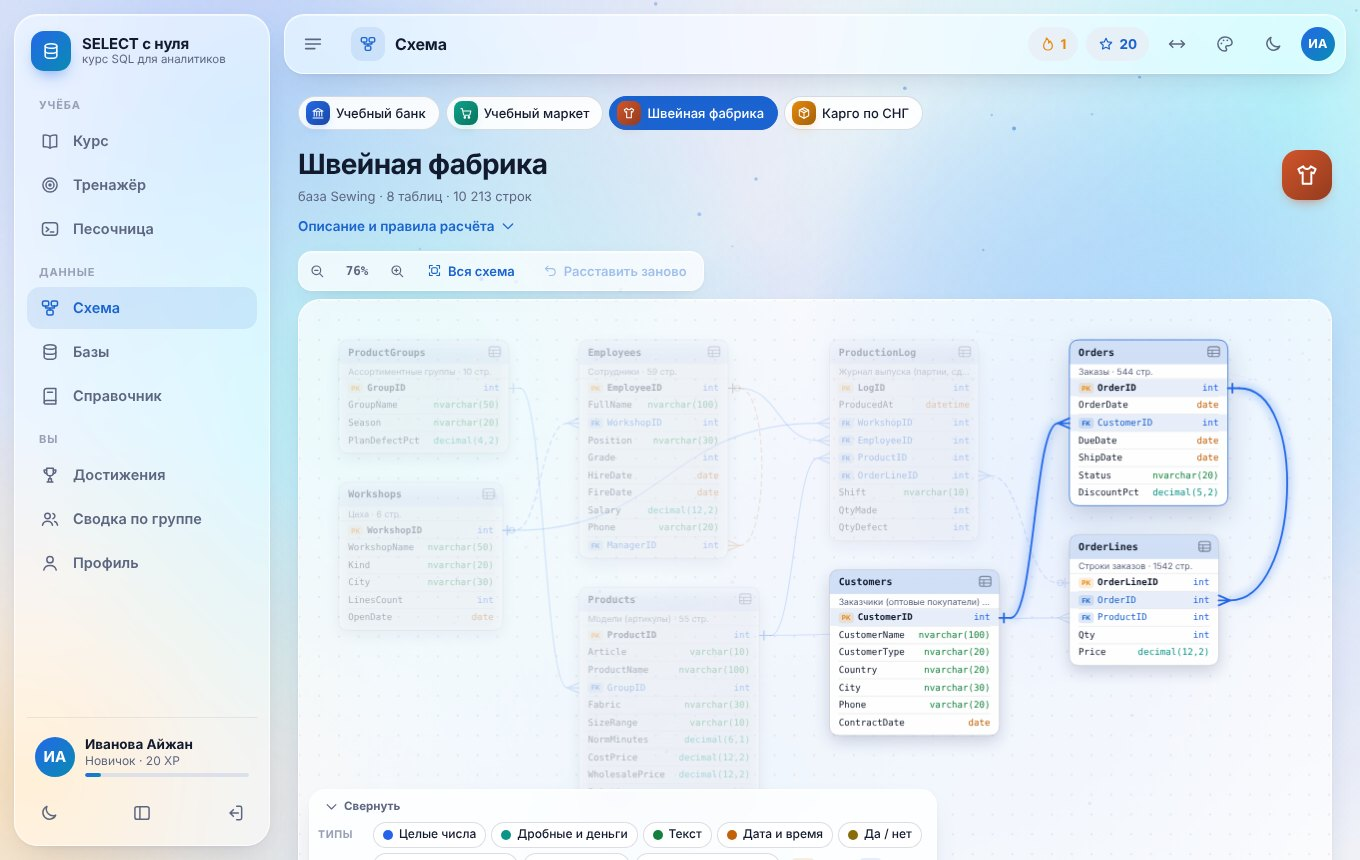
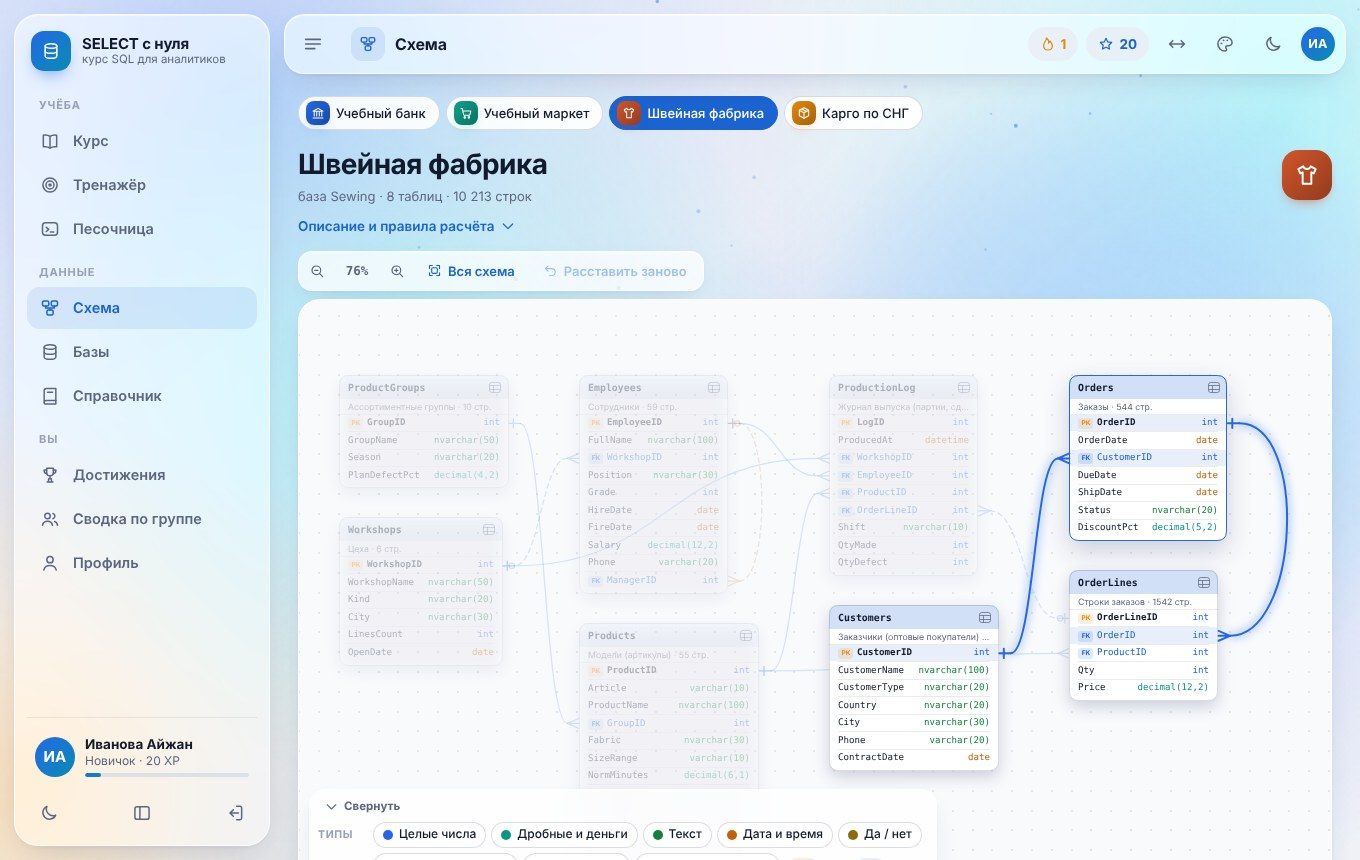
Схема на холсте: чёткая картинка при любом масштабе экрана
Схема базы выглядела мутной: холст не совпадал с экраном «пиксель в пиксель»,
и браузер растягивал готовую картинку.

- Размер холста брался у области с рамкой, поэтому холст был на 2 px больше,
  чем его место на странице, — вся схема пересчитывалась и размывалась.
  Теперь меряется сам холст.
- При масштабе системы 125/150 % и масштабе страницы 110 % размер в пикселях
  экрана дробный. Точное значение берётся у браузера (ResizeObserver,
  devicePixelContentBoxSize), с запасным расчётом для браузеров без него
  и для режима эмуляции устройства.
- На телефонах с плотностью 3 холст рисовался с заниженной плотностью (2,5).
- Рисунок ставится на сетку экрана: сдвиг схемы — целое число пикселей,
  каждая таблица начинается с целого пикселя; линии строк, рамка и строки
  текста — тоже. Линии связей не тоньше пикселя экрана.
- Холст непрозрачный (alpha: false): поле закрашивается цветом палитры,
  текст сглаживается как обычный текст страницы, фон не просвечивает.
- При смене размера холст перерисовывается сразу (без пустого кадра).

tools/ui-smoke.py: проверка, что размер холста равен размеру на экране.

Claude-Session: https://claude.ai/code/session_01FWdRrhziNd3qfb9FB9K94m

diff --git a/js/app/erd.js b/js/app/erd.js
@@ -194,7 +194,9 @@
   P.build = function () {
     var self = this;
     this.canvas = h('canvas.erdc-canvas', { 'aria-label': 'Схема связей базы ' + this.pack.dbName, role: 'img' });
-    this.ctx = this.canvas.getContext('2d');
+    // Холст непрозрачный: свой фон рисуем сами. Так браузер сглаживает текст на холсте так же чётко,
+    // как обычный текст страницы (на прозрачном холсте сглаживание грубее), и сквозь схему не просвечивает фон.
+    this.ctx = this.canvas.getContext('2d', { alpha: false }) || this.canvas.getContext('2d');
     this.tip = h('div.erdc-tip');
     this.zoomLbl = h('span.erdc-zoom', '100%');
     this.resetBtn = h('button.btn.small.ghost', { type: 'button', title: 'Вернуть таблицы на исходные места', onclick: function () { self.resetPos(); } }, I('undo', 15), h('span.bl', 'Расставить заново'));
@@ -366,18 +368,22 @@
     var c = {
       dark: dark, text: v('--text', '#121a2e'), muted: v('--muted', '#5d6680'), faint: v('--faint', '#98a0b5'),
       primary: v('--primary', '#1a63d0'), xp: v('--xp', '#e8890c'),
-      card: dark ? 'rgba(28, 35, 60, .96)' : 'rgba(255, 255, 255, .97)',
+      card: dark ? '#1c233c' : '#ffffff', bg: dark ? '#111726' : '#fafbfd',
       line: dark ? 'rgba(255, 255, 255, .10)' : 'rgba(20, 30, 60, .09)',
       border: dark ? 'rgba(255, 255, 255, .16)' : 'rgba(20, 30, 60, .16)',
       shadow: dark ? 'rgba(0, 0, 0, .55)' : 'rgba(30, 40, 90, .20)',
-      dot: dark ? 'rgba(255, 255, 255, .06)' : 'rgba(20, 30, 60, .07)',
+      dot: dark ? 'rgba(255, 255, 255, .07)' : 'rgba(20, 30, 60, .09)',
       cat: {}, rel: {}
     };
     // шапки таблиц и подсветка строк — оттенки основного цвета выбранной палитры
     c.head = tint(c.primary, dark ? .20 : .10); c.headOn = tint(c.primary, dark ? .38 : .20); c.rowOn = tint(c.primary, dark ? .20 : .10);
-    // в тёмной теме карточка таблицы — чуть светлее «стекла» палитры, чтобы таблицы не сливались с полем
-    var sd = dark ? /^#([0-9a-f]{2})([0-9a-f]{2})([0-9a-f]{2})$/i.exec(v('--surface-solid', '')) : null;
-    if (sd) c.card = 'rgba(' + sd.slice(1).map(function (x) { return Math.round(parseInt(x, 16) * .94 + 15); }).join(', ') + ', .96)';
+    // поле схемы и карточки таблиц — сплошные цвета палитры: поле между фоном страницы и «стеклом»,
+    // карточка в тёмной теме чуть светлее «стекла», чтобы таблицы не сливались с полем
+    var hex3 = function (x) { var m = /^#([0-9a-f]{2})([0-9a-f]{2})([0-9a-f]{2})$/i.exec(x); return m ? m.slice(1).map(function (q) { return parseInt(q, 16); }) : null; };
+    var sd = hex3(v('--surface-solid', '')), bg = hex3(v('--bg', ''));
+    var rgb = function (a) { return 'rgb(' + a.map(Math.round).join(', ') + ')'; };
+    if (sd && bg) c.bg = rgb(sd.map(function (x, i) { return dark ? x * .55 + bg[i] * .45 : x * .62 + bg[i] * .38; }));
+    if (sd && dark) c.card = rgb(sd.map(function (x) { return x * .94 + 15; }));
     // цвета типов и связей — из css/app.css (--cat-*, --rel-*); запасные значения — на случай старых стилей
     CATS.forEach(function (x) { c.cat[x[0]] = v('--cat-' + x[0], dark ? x[3] : x[2]); });
     RELS.forEach(function (x) { if (x[3]) c.rel[x[0]] = v('--rel-' + x[0], dark ? x[4] : x[3]); });
@@ -405,18 +411,25 @@
     } else if (this.pin) addNode(this.pin);
     return any ? f : null;
   };
+  // Чёткость. Холст совпадает с экраном «пиксель в пиксель» (см. resize), а рисунок ставится на сетку экрана:
+  //  — сдвиг схемы округляется до целого пикселя экрана;
+  //  — каждая таблица начинается с целого пикселя, её линии, рамка и строки текста тоже стоят на целых пикселях (paintNode).
+  // Без этого при масштабе схемы 83 % или масштабе системы 125 % линии и буквы попадают «между пикселями» и расплываются.
   P.paint = function () {
-    var ctx = this.ctx, dpr = this.dpr || 1, W = this.W, H = this.H, k = this.k, self = this;
+    var ctx = this.ctx, sx = this.sx || 1, sy = this.sy || sx, W = this.W, H = this.H, k = this.k, self = this;
     if (!W || !H) return;
     var C = this.C || (this.C = this.colors()), f = this.focus();
-    ctx.setTransform(dpr, 0, 0, dpr, 0, 0);
-    ctx.clearRect(0, 0, W, H);
+    ctx.setTransform(1, 0, 0, 1, 0, 0);
+    ctx.globalAlpha = 1; ctx.fillStyle = C.bg; ctx.fillRect(0, 0, this.canvas.width, this.canvas.height);
+    // px — перевод координат схемы в пиксели экрана: масштаб и целый сдвиг
+    var px = this.px = { sx: sx * k, sy: sy * k, ox: Math.round(this.tx * sx), oy: Math.round(this.ty * sy), dev: sx };
     // фон-сетка из точек: движется и масштабируется вместе со схемой
     var step = 26 * k; while (step < 14) step *= 2;
     ctx.fillStyle = C.dot;
-    var ox = ((this.tx % step) + step) % step, oy = ((this.ty % step) + step) % step;
-    for (var gx = ox; gx < W; gx += step) for (var gy = oy; gy < H; gy += step) ctx.fillRect(gx - 1, gy - 1, 2, 2);
-    ctx.setTransform(dpr * k, 0, 0, dpr * k, dpr * this.tx, dpr * this.ty);
+    var dot = Math.max(1, Math.round(1.7 * sx)), half = dot >> 1;
+    var gx0 = ((this.tx % step) + step) % step, gy0 = ((this.ty % step) + step) % step;
+    for (var gx = gx0; gx < W; gx += step) for (var gy = gy0; gy < H; gy += step) ctx.fillRect(Math.round(gx * sx) - half, Math.round(gy * sy) - half, dot, dot);
+    ctx.setTransform(px.sx, 0, 0, px.sy, px.ox, px.oy);
 
     // --- связи
     var front = [];
@@ -436,9 +449,9 @@
     ctx.save();
     ctx.globalAlpha = alpha;
     ctx.strokeStyle = col; ctx.fillStyle = col;
-    ctx.lineWidth = on ? 2.4 : 1.5;
+    ctx.lineWidth = Math.max(on ? 2.4 : 1.5, (on ? 2 : 1.25) / this.px.sx);   // на мелком масштабе линия не тоньше пикселя экрана
     ctx.lineCap = 'round'; ctx.lineJoin = 'round';
-    if (on) { ctx.shadowColor = col; ctx.shadowBlur = 10; }
+    if (on) { ctx.shadowColor = col; ctx.shadowBlur = 10 * this.px.dev; }
     if (e.opt) ctx.setLineDash([6, 5]);
     var m = 15;   // место под значки на концах
     ctx.beginPath();
@@ -456,7 +469,7 @@
     ctx.stroke();
     if (e.opt) {
       ctx.beginPath(); ctx.arc(p.x2 + p.sb * 12, p.y2, 3.6, 0, Math.PI * 2);
-      ctx.fillStyle = C.dark ? '#161c31' : '#ffffff'; ctx.fill(); ctx.stroke();
+      ctx.fillStyle = C.bg; ctx.fill(); ctx.stroke();
     }
     ctx.restore();
   };
@@ -474,65 +487,74 @@
     return text + '…';
   }
   P.paintNode = function (n, C, f) {
-    var ctx = this.ctx, hv = this.hover, isHover = hv && hv.node === n, isPin = this.pin === n;
+    var ctx = this.ctx, px = this.px, S = px.sx, Sy = px.sy, hv = this.hover, isHover = hv && hv.node === n, isPin = this.pin === n;
     var dim = f && !f.cat && !f.nodes[n.name];
+    // левый верхний угол таблицы — на целом пикселе экрана; дальше рисуем в координатах самой таблицы (0, 0 — её угол).
+    // qx / qy подгоняют размер или отступ под сетку экрана, line — толщина тонкой линии (целое число пикселей экрана).
+    var qx = function (v) { return Math.round(v * S) / S; }, qy = function (v) { return Math.round(v * Sy) / Sy; };
+    var w = qx(n.w), hgt = qy(n.h), line = Math.max(1, Math.round(Sy)) / Sy;
     ctx.save();
+    ctx.setTransform(S, 0, 0, Sy, Math.round(n.x * S + px.ox), Math.round(n.y * Sy + px.oy));
     ctx.globalAlpha = dim ? 0.3 : 1;
     // карточка с тенью
-    ctx.shadowColor = C.shadow; ctx.shadowBlur = isHover || isPin ? 26 : 16; ctx.shadowOffsetY = isHover || isPin ? 10 : 6;
-    rr(ctx, n.x, n.y, n.w, n.h, RADIUS); ctx.fillStyle = C.card; ctx.fill();
+    ctx.shadowColor = C.shadow; ctx.shadowBlur = (isHover || isPin ? 26 : 16) * px.dev; ctx.shadowOffsetY = (isHover || isPin ? 10 : 6) * px.dev;
+    rr(ctx, 0, 0, w, hgt, RADIUS); ctx.fillStyle = C.card; ctx.fill();
     ctx.shadowColor = 'transparent'; ctx.shadowBlur = 0; ctx.shadowOffsetY = 0;
     // шапка
+    var head = qy(HEAD);
     ctx.save();
-    rr(ctx, n.x, n.y, n.w, n.h, RADIUS); ctx.clip();
+    rr(ctx, 0, 0, w, hgt, RADIUS); ctx.clip();
     ctx.fillStyle = isPin || (f && f.nodes && f.nodes[n.name]) ? C.headOn : C.head;
-    ctx.fillRect(n.x, n.y, n.w, HEAD);
+    ctx.fillRect(0, 0, w, head);
     ctx.restore();
     ctx.textBaseline = 'middle'; ctx.textAlign = 'left';
     ctx.font = '700 13px ' + FONT_MONO; ctx.fillStyle = C.text;
-    ctx.fillText(clipText(ctx, n.name, n.w - 2 * PAD - 26), n.x + PAD, n.y + HEAD / 2 + 1);
-    // значок «показать данные» справа в шапке
-    var ix = n.x + n.w - 26, iy = n.y + 9, pv = isHover && hv.part === 'preview';
-    ctx.strokeStyle = pv ? C.primary : C.muted; ctx.lineWidth = 1.4; ctx.globalAlpha = (dim ? 0.3 : 1) * (pv ? 1 : 0.75);
-    rr(ctx, ix, iy, 15, 13, 3); ctx.stroke();
-    ctx.beginPath(); ctx.moveTo(ix, iy + 4.5); ctx.lineTo(ix + 15, iy + 4.5); ctx.moveTo(ix, iy + 8.8); ctx.lineTo(ix + 15, iy + 8.8); ctx.moveTo(ix + 5.5, iy + 4.5); ctx.lineTo(ix + 5.5, iy + 13); ctx.stroke();
+    ctx.fillText(clipText(ctx, n.name, n.w - 2 * PAD - 26), qx(PAD), qy(HEAD / 2 + 1));
+    // значок «показать данные» справа в шапке (линии — по сетке экрана)
+    var pv = isHover && hv.part === 'preview';
+    var lwi = Math.max(1, Math.round(1.4 * S)), off = (lwi % 2) * 0.5 / S;   // нечётная толщина — линия по центру пикселя
+    var ix = qx(n.w - 26) + off, iy = qy(9) + off, iw = qx(15), ih = qy(13), i1 = qy(4.5), i2 = qy(8.8), i3 = qx(5.5);
+    ctx.strokeStyle = pv ? C.primary : C.muted; ctx.lineWidth = lwi / S; ctx.globalAlpha = (dim ? 0.3 : 1) * (pv ? 1 : 0.75);
+    rr(ctx, ix, iy, iw, ih, 3); ctx.stroke();
+    ctx.beginPath(); ctx.moveTo(ix, iy + i1); ctx.lineTo(ix + iw, iy + i1); ctx.moveTo(ix, iy + i2); ctx.lineTo(ix + iw, iy + i2); ctx.moveTo(ix + i3, iy + i1); ctx.lineTo(ix + i3, iy + ih); ctx.stroke();
     ctx.globalAlpha = dim ? 0.3 : 1;
     // подпись таблицы
-    var y0 = n.y + HEAD;
+    var y0 = HEAD;
     if (n.sub) {
       ctx.font = '11.5px ' + FONT_SANS; ctx.fillStyle = C.muted;
       var cnt = n.t.rowCount !== undefined ? ' · ' + n.t.rowCount + ' стр.' : '';
-      ctx.fillText(clipText(ctx, (n.t.title || '') + cnt, n.w - 2 * PAD), n.x + PAD, y0 + SUB / 2 + 1);
+      ctx.fillText(clipText(ctx, (n.t.title || '') + cnt, n.w - 2 * PAD), qx(PAD), qy(y0 + SUB / 2 + 1));
       y0 += SUB;
-      ctx.fillStyle = C.line; ctx.fillRect(n.x, y0 - 0.5, n.w, 1);
+      ctx.fillStyle = C.line; ctx.fillRect(0, qy(y0), w, line);
     }
     // столбцы
     for (var i = 0; i < n.rows.length; i++) {
-      var r = n.rows[i], ry = y0 + i * ROW, mid = ry + ROW / 2 + 1;
+      var r = n.rows[i], ry = qy(y0 + i * ROW), ry2 = qy(y0 + (i + 1) * ROW), mid = qy(y0 + i * ROW + ROW / 2 + 1);
       var rowOn = (f && f.rows && f.rows[n.name + '.' + i]) || (isHover && hv.part === 'row' && hv.row === i);
       var catOn = f && f.cat ? r.cat === f.cat : null;
-      if (rowOn || catOn) { ctx.fillStyle = catOn ? hexA(C.cat[r.cat], C.dark ? 0.24 : 0.14) : C.rowOn; ctx.fillRect(n.x + 1, ry + 1, n.w - 2, ROW - 1); }
-      if (i) { ctx.fillStyle = C.line; ctx.fillRect(n.x + PAD, ry, n.w - 2 * PAD, 1); }
+      if (rowOn || catOn) { ctx.fillStyle = catOn ? hexA(C.cat[r.cat], C.dark ? 0.24 : 0.14) : C.rowOn; ctx.fillRect(line, ry + line, w - 2 * line, ry2 - ry - line); }
+      if (i) { ctx.fillStyle = C.line; ctx.fillRect(qx(PAD), ry, w - 2 * qx(PAD), line); }
       ctx.globalAlpha = (dim ? 0.3 : 1) * (catOn === false ? 0.32 : 1);
-      var tx = n.x + PAD;
+      var tx = qx(PAD);
       if (r.pk || r.fk) {   // значок PK / FK
         var bc = r.pk ? C.xp : C.primary;
-        rr(ctx, tx, mid - 7, 20, 14, 4); ctx.fillStyle = hexA(bc, C.dark ? 0.24 : 0.14); ctx.fill();
+        rr(ctx, tx, mid - qy(7), qx(20), qy(14), 4); ctx.fillStyle = hexA(bc, C.dark ? 0.24 : 0.14); ctx.fill();
         ctx.font = '700 8.5px ' + FONT_SANS; ctx.fillStyle = bc; ctx.textAlign = 'center';
-        ctx.fillText(r.pk ? 'PK' : 'FK', tx + 10, mid + 0.5);
-        ctx.textAlign = 'left'; tx += 25;
+        ctx.fillText(r.pk ? 'PK' : 'FK', tx + qx(10), mid + line * 0.5);
+        ctx.textAlign = 'left'; tx += qx(25);
       }
       ctx.font = (r.pk ? '700 ' : '') + '12px ' + FONT_MONO;
       ctx.fillStyle = r.fk && !r.pk ? C.primary : C.text;
-      ctx.fillText(clipText(ctx, r.name, n.w - (tx - n.x) - PAD - r.tw - 12), tx, mid);
+      ctx.fillText(clipText(ctx, r.name, n.w - tx - PAD - r.tw - 12), tx, mid);
       ctx.font = '12px ' + FONT_MONO; ctx.fillStyle = C.cat[r.cat]; ctx.textAlign = 'right';
-      ctx.fillText(r.type, n.x + n.w - PAD, mid);
+      ctx.fillText(r.type, w - qx(PAD), mid);
       ctx.textAlign = 'left';
       ctx.globalAlpha = dim ? 0.3 : 1;
     }
-    // рамка
-    rr(ctx, n.x, n.y, n.w, n.h, RADIUS);
-    ctx.lineWidth = isPin ? 2 : 1; ctx.strokeStyle = isPin || isHover ? C.primary : C.border;
+    // рамка: целое число пикселей экрана, ровно по краю карточки
+    var lwb = Math.max(1, Math.round((isPin ? 2 : 1) * S)) / S;
+    rr(ctx, lwb / 2, lwb / 2, w - lwb, hgt - lwb, RADIUS - lwb / 2);
+    ctx.lineWidth = lwb; ctx.strokeStyle = isPin || isHover ? C.primary : C.border;
     ctx.globalAlpha = (dim ? 0.3 : 1) * (isPin || isHover ? 0.95 : 1);
     ctx.stroke();
     ctx.restore();
@@ -560,19 +582,37 @@
     if (window.innerWidth < 768) hgt = Math.max(360, Math.min(hgt, 640));
     this.stage.style.height = hgt + 'px';
   };
+  // Размер холста. Он должен совпадать с экраном «пиксель в пиксель»: иначе браузер растягивает готовую картинку
+  // и вся схема становится мутной. Поэтому:
+  //  — меряем сам холст, а не область .erdc-stage (у неё есть рамка, и холст на 2 px меньше);
+  //  — число пикселей экрана берём у браузера (devBox приходит из ResizeObserver, см. events): при масштабе системы 125 %
+  //    или масштабе страницы 110 % размер в пикселях дробный, и округлить его «как на экране» может только браузер;
+  //  — на экранах с плотностью 3 (телефоны) рисуем в полную плотность, без занижения.
+  var MAX_PIXELS = 16e6;   // предел размера холста (4K-экран целиком — 8,3 млн)
   P.resize = function () {
     if (!this.W) this.fitHeight();
-    var r = this.stage.getBoundingClientRect();
-    if (!r.width || !r.height) return false;
-    var dpr = Math.min(window.devicePixelRatio || 1, 2.5), first = !this.W;
-    var W = Math.round(r.width), H = Math.round(r.height);
-    if (W !== this.W || H !== this.H || dpr !== this.dpr) {
+    var cv = this.canvas, ratio = window.devicePixelRatio || 1, d = this.devBox, cw, ch, bw, bh;
+    if (d && d.cw && d.ch) { cw = d.cw; ch = d.ch; } else { cw = cv.clientWidth; ch = cv.clientHeight; }
+    bw = Math.round(cw * ratio); bh = Math.round(ch * ratio);
+    // точный размер от браузера отличается от расчётного не больше чем на пиксель; если расхождение больше
+    // (браузер его не сообщает или страница открыта в режиме эмуляции устройства) — остаётся расчётный
+    if (d && d.w && d.h && Math.abs(d.w - cw * ratio) <= 1 && Math.abs(d.h - ch * ratio) <= 1) { bw = d.w; bh = d.h; }
+    if (!cw || !ch || !bw || !bh) return false;
+    if (bw * bh > MAX_PIXELS) { var q = Math.sqrt(MAX_PIXELS / (bw * bh)); bw = Math.floor(bw * q); bh = Math.floor(bh * q); }
+    var first = !this.W, changed = false;
+    if (bw !== cv.width || bh !== cv.height || cw !== this.W || ch !== this.H) {
       // при изменении размера окна схема остаётся на месте относительно центра
-      if (!first) { this.tx += (W - this.W) / 2; this.ty += (H - this.H) / 2; }
-      this.W = W; this.H = H; this.dpr = dpr;
-      this.canvas.width = Math.round(W * dpr); this.canvas.height = Math.round(H * dpr);
+      if (!first) { this.tx += (cw - this.W) / 2; this.ty += (ch - this.H) / 2; }
+      this.W = cw; this.H = ch;
+      this.sx = bw / cw; this.sy = bh / ch; this.dpr = this.sx;   // пикселей экрана на один пиксель страницы
+      if (cv.width !== bw) cv.width = bw;
+      if (cv.height !== bh) cv.height = bh;
+      changed = true;
     }
-    if (first) { this.arrange(true); this.home(); } else this.invalidate();
+    if (first) { this.arrange(true); this.home(); }
+    // смена размера стирает холст — рисуем сразу, не дожидаясь следующего кадра, иначе схема мигнёт пустым полем
+    if (first || changed) { if (this.raf) { cancelAnimationFrame(this.raf); this.raf = 0; } this.paint(); }
+    else this.invalidate();
     return true;
   };
   // совместимость с прежним вызовом: draw() — пересчитать размер и нарисовать
@@ -701,7 +741,17 @@
     cv.addEventListener('dblclick', function (e) { var p = pos(e), w = self.toWorld(p.x, p.y); if (!self.hit(w.x, w.y)) self.fit(); });
 
     // размер области и смена темы
-    if (window.ResizeObserver) { this.ro = new ResizeObserver(function () { self.resize(); }); this.ro.observe(this.stage); }
+    if (window.ResizeObserver) {
+      // следим за самим холстом; браузер сообщает его точный размер в пикселях экрана (devicePixelContentBoxSize) —
+      // в том числе когда меняется только масштаб страницы или окно переезжает на другой монитор
+      this.ro = new ResizeObserver(function (list) {
+        var e = list[list.length - 1], box = e.devicePixelContentBoxSize && e.devicePixelContentBoxSize[0];
+        self.devBox = { cw: e.contentRect.width, ch: e.contentRect.height, w: box ? box.inlineSize : 0, h: box ? box.blockSize : 0 };
+        if (!document.body.contains(self.el)) { self.destroy(); return; }
+        self.resize();
+      });
+      try { this.ro.observe(cv, { box: 'device-pixel-content-box' }); } catch (err) { this.ro.observe(cv); }
+    }
     this.onWin = U.debounce(function () { if (!document.body.contains(self.el)) { self.destroy(); return; } self.fitHeight(); self.resize(); }, 120);
     window.addEventListener('resize', this.onWin);
     this.mo = new MutationObserver(function () { if (!document.body.contains(self.el)) { self.destroy(); return; } self.C = null; self.invalidate(); });

diff --git a/css/app.css b/css/app.css
@@ -1103,7 +1103,7 @@ label.check small { display: block; color: var(--muted); font-size: 12.5px; line
 .erdc-zoom { min-width: 46px; text-align: center; font: 600 12.5px var(--mono); color: var(--muted); }
 .erdc-hint { display: flex; align-items: center; gap: 7px; font-size: 12.5px; color: var(--muted); min-width: 0; margin-top: 8px; }
 .erdc-hint svg { flex: none; }
-.erdc-stage { position: relative; height: clamp(420px, calc(100vh - 330px), 940px); border-radius: 22px; overflow: hidden; background: var(--surface); border: 1px solid var(--glass-bd); box-shadow: var(--shadow); }
+.erdc-stage { position: relative; height: clamp(420px, calc(100vh - 330px), 940px); border-radius: 22px; overflow: hidden; background: var(--surface-solid); border: 1px solid var(--glass-bd); box-shadow: var(--shadow); }   /* холст схемы непрозрачный: поле закрашивает erd.js */
 .erdc-canvas { display: block; width: 100%; height: 100%; touch-action: none; cursor: grab; -webkit-user-select: none; user-select: none; }
 .erdc-tip { position: absolute; z-index: 3; display: none; max-width: 300px; padding: 8px 11px; border-radius: 12px; font-size: 12.5px; line-height: 1.4; pointer-events: none; background: var(--glass-strong); -webkit-backdrop-filter: var(--blur); backdrop-filter: var(--blur); border: 1px solid var(--glass-bd); box-shadow: var(--shadow-lg); color: var(--text); }
 .erdc-tip b { font-family: var(--mono); font-size: 12.5px; }

diff --git a/tools/ui-smoke.py b/tools/ui-smoke.py
@@ -45,11 +45,16 @@ async def scenario(browser, url, tag, errors):
     await pg.goto(url + '#/schema/bank'); await pg.wait_for_timeout(900)
     erd = await pg.evaluate("""(() => {
       const c = document.querySelector('.erdc-canvas'); if (!c) return null;
-      const d = c.getContext('2d').getImageData(0, 0, c.width, c.height).data; let n = 0;
-      for (let i = 3; i < d.length; i += 4000) if (d[i] > 0) n++;
-      return { painted: n, tables: window.__erdLast.nodes.length, links: window.__erdLast.edges.length };
+      const d = c.getContext('2d').getImageData(0, 0, c.width, c.height).data, seen = new Set();
+      for (let i = 0; i < d.length; i += 4 * 97) seen.add(d[i] + ',' + d[i + 1] + ',' + d[i + 2]);
+      const r = c.getBoundingClientRect(), k = window.devicePixelRatio || 1;
+      return { colors: seen.size, tables: window.__erdLast.nodes.length, links: window.__erdLast.edges.length,
+        canvas: c.width + 'x' + c.height, screen: (r.width * k) + 'x' + (r.height * k),
+        exact: Math.abs(c.width - r.width * k) <= 1 && Math.abs(c.height - r.height * k) <= 1 };
     })()""")
-    assert erd and erd['painted'] > 30 and erd['tables'] == 9 and erd['links'] == 8, f'{tag}: схема не нарисована: {erd}'
+    assert erd and erd['colors'] > 12 and erd['tables'] == 9 and erd['links'] == 8, f'{tag}: схема не нарисована: {erd}'
+    # холст схемы совпадает с экраном «пиксель в пиксель» — иначе браузер растягивает картинку и схема мутная
+    assert erd['exact'], f'{tag}: размер холста схемы не равен размеру на экране (схема будет мутной): {erd}'
     # тренажёр: фильтр по командам
     await pg.goto(url + '#/trainer/0/bank'); await pg.wait_for_timeout(500)
     await pg.locator('.chip.cmd', has_text='HAVING').first.click(); await pg.wait_for_timeout(400)

diff --git a/docs/АРХИТЕКТУРА.md b/docs/АРХИТЕКТУРА.md
@@ -131,6 +131,8 @@ view.appendChild(new My({ columns: ['Имя', 'Сумма'], rows: [['Айбек
 
 `App.erd(pack)` возвращает `{ el, draw(), view }`. Таблицы и связи рисуются на `<canvas>` (с учётом плотности экрана и темы), всё остальное — обычная разметка: панель масштаба, подсказка, легенда. Расположение подбирается под размер области: сетка автора базы (`layout` в `schema.json`) остаётся, если схема при ней читается, иначе таблицы раскладываются в столько колонок, сколько помещается. Сдвинутые пользователем таблицы запоминаются в `localStorage` (`sqlkurs.erd.<id базы>`). Вид связи определяется по данным: значения ссылки не повторяются — «один к одному», в ссылке есть `NULL` — «необязательная» (пунктир), ссылка на свою таблицу — «иерархия». Цвета типов и связей — переменные `--cat-*` и `--rel-*` в `css/app.css` (те же цвета у типов в панели «Схема базы»).
 
+Чёткость схемы. Холст совпадает с экраном «пиксель в пиксель»: его размер берётся у самого холста (не у области с рамкой) и в пикселях экрана — из `ResizeObserver` (`devicePixelContentBoxSize`), потому что при масштабе системы 125 % или масштабе страницы 110 % размер дробный и округлить его «как на экране» может только браузер. Рисунок ставится на сетку экрана: сдвиг схемы — целое число пикселей, каждая таблица начинается с целого пикселя, её линии, рамка и строки текста — тоже (`paintNode`: `qx`, `qy`, `line`). Холст непрозрачный (`alpha: false`), поле закрашивается цветом палитры — так текст сглаживается как обычный текст страницы. Если что-то из этого нарушить, схема становится мутной; проверка — `tools/ui-smoke.py` (размер холста равен размеру на экране).
+
 ## Прогресс пользователя
 
 Объект пользователя (`App.user`) — один JSON: `id`, `name`, `dept`, `pinHash`, `xp`, `items` (решённые задачи и ответы по id), `lessons`, `modulesDone`, `ach`, `stats`, `streak`, `settings` (тема, выбранные базы, панель схемы, автокопия), `sandbox`, `backup`, `rev`, `updated`. Поэтому **id заданий нельзя менять** — по ним хранится прогресс.
